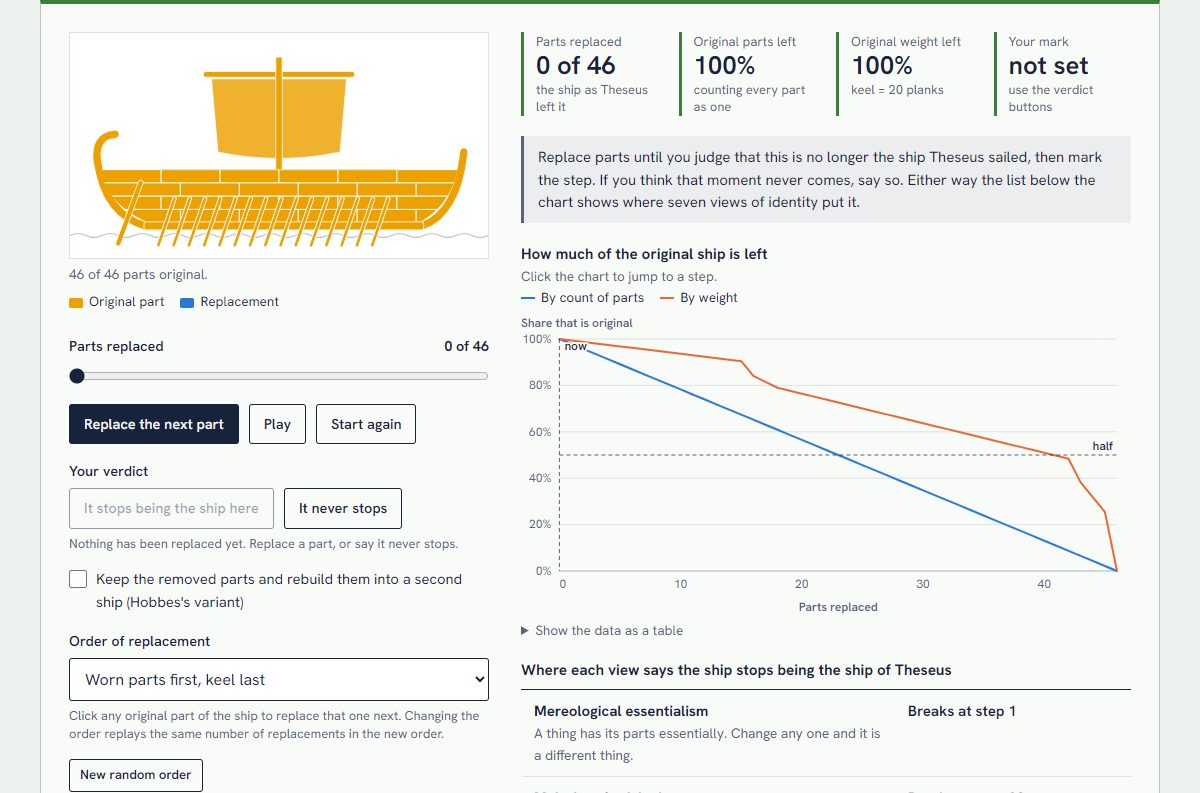
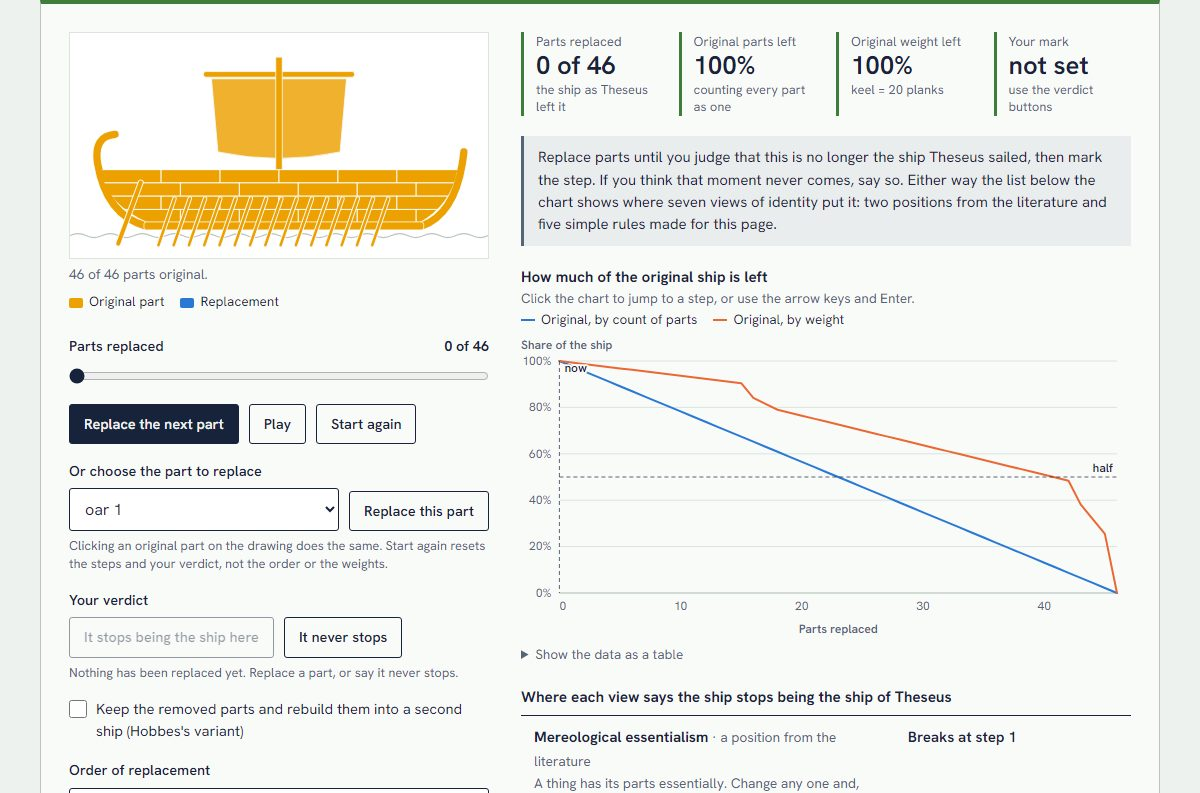
Review project 10: keyboard part replacement, Hobbes clash logic, exact percentages

diff --git a/365projects/10/app.js b/365projects/10/app.js
@@ -1,6 +1,6 @@
 // Day 10: Ship of Theseus Simulator. Interface.
 import { $, el, svgEl, fmt, clamp, mount, slider, select, checkbox, segmented, button, stat, note, chart, ticker, reducedMotion, randomSeed, palette } from "../kit/kit.js";
-import { PARTS, N, VIEWS, ORDERS, weights, makeOrder, promote, trajectory, breaks, roughest, matchMark, hobbesTension } from "./logic.js";
+import { PARTS, N, VIEWS, ORDERS, weights, makeOrder, promote, trajectory, breaks, roughest, matchMark, hobbesTension, describeParts } from "./logic.js";
 
 mount();
 
@@ -9,6 +9,10 @@ const strong = (text) => el("strong", { text });
 const list = (names) => (names.length < 2 ? names.join("") : `${names.slice(0, -1).join(", ")} and ${names.at(-1)}`);
 const steps = (n) => `${n} replacement${n === 1 ? "" : "s"}`;
 const viewName = (key) => VIEWS.find((v) => v.key === key).name;
+// Shares are compared with one half, so a rounded "50%" must mean exactly half: whole percentages only when exact.
+const share = (v) => fmt.pct(v, Math.abs(v * 100 - Math.round(v * 100)) < 1e-9 ? 0 : 1);
+/** Replace a box's contents only when the words differ, so that a live region is not read out again for nothing. */
+const setText = (box, node) => { if (box.textContent !== node.textContent) box.replaceChildren(node); };
 
 /* ---------- the ship ---------- */
 const ORIGINAL = palette[3], NEW = palette[0], GHOST = "#dfe5e1", SHEET = "#f9fbf9";
@@ -66,15 +70,18 @@ function ship(label, live) {
 
 const shipA = ship("The repaired ship", true);
 const shipB = ship("The ship rebuilt from the removed parts", false);
-shipA.svg.addEventListener("click", (e) => {
-  const id = e.target.closest?.("[data-id]")?.dataset.id;
-  if (id == null) return;
-  const next = promote(state.order, state.t, Number(id));
+/** Replace one chosen part now, whatever the order said. Does nothing if that part has already gone. */
+function replacePart(id) {
+  const next = promote(state.order, state.t, id);
   if (next === state.order) return;
   state.order = next;
   state.orderName = "custom";
   state.t++;
   render();
+}
+shipA.svg.addEventListener("click", (e) => {
+  const id = e.target.closest?.("[data-id]")?.dataset.id;
+  if (id != null) replacePart(Number(id));
 });
 
 /* ---------- controls ---------- */
@@ -86,7 +93,8 @@ const player = ticker((dt) => {
   waited += dt;
   if (waited < (reducedMotion() ? 0.7 : 0.2)) return;
   waited = 0;
-  if (state.t >= N) player.stop(); else state.t++;
+  if (state.t < N) state.t++;
+  if (state.t >= N) player.stop();
   render();
 });
 const playBtn = button("Play", () => {
@@ -97,7 +105,7 @@ const playBtn = button("Play", () => {
 const orderSelect = select({
   label: "Order of replacement", value: "wear",
   options: [...ORDERS, { value: "custom", label: "Your own order" }],
-  hint: "Click any original part of the ship to replace that one next. Changing the order replays the same number of replacements in the new order.",
+  hint: "Changing the order replays the same number of replacements in the new order. Replacing a part of your choice makes the order your own.",
   onChange: (v) => { state.orderName = v; if (v !== "custom") state.order = makeOrder(v, state.seed); render(); },
 });
 const shuffleBtn = button("New random order", () => { state.seed = randomSeed(); state.orderName = "random"; state.order = makeOrder("random", state.seed); render(); }, { small: true });
@@ -107,6 +115,11 @@ const gammaSlider = slider({
   hint: "A part's weight is its base importance raised to this power (shown here as what the keel is worth). Base values: keel 20, mast 8, posts and sail 5, yard and steering oar 2, plank 1, oar 0.5.",
   onInput: (g) => { state.gamma = g; render(); },
 });
+// The same thing as clicking a part on the drawing, for keyboards, screen readers and small screens.
+const partSelect = select({ label: "Or choose the part to replace", options: [] });
+const partBtn = button("Replace this part", () => { if (partSelect.value !== "") replacePart(Number(partSelect.value)); });
+const partRow = el("div", { class: "field" }, el("div", { class: "pick" }, partSelect.el, partBtn),
+  el("div", { class: "hint", text: "Clicking an original part on the drawing does the same. Start again resets the steps and your verdict, not the order or the weights." }));
 const markBtn = button("It stops being the ship here", () => { if (state.t > 0) { state.mark = state.t; render(); } });
 const neverBtn = button("It never stops", () => { state.mark = "never"; render(); });
 const markHint = el("div", { class: "hint" });
@@ -117,7 +130,7 @@ const sStep = stat("Parts replaced");
 const sCount = stat("Original parts left");
 const sWeight = stat("Original weight left");
 const sMark = stat("Your mark");
-const capA = el("figcaption");
+const capA = el("figcaption", { "aria-live": "polite" });
 const capB = el("figcaption");
 const figB = el("figure", { class: "ship-fig" }, shipB.svg, capB);
 const swatch = (colour, text) => el("span", {}, el("i", { style: { background: colour } }), text);
@@ -127,7 +140,7 @@ const ships = el("div", {},
   el("div", { class: "chart-legend", style: { marginTop: "8px" } }, swatch(ORIGINAL, "Original part"), swatch(NEW, "Replacement"), ghostKey));
 // The ship sits with its controls, so that on a phone the button and the thing it changes are on screen together.
 const controls = el("div", { class: "controls" },
-  ships, stepSlider.el, el("div", { class: "row" }, replaceBtn, playBtn, resetBtn),
+  ships, stepSlider.el, el("div", { class: "row" }, replaceBtn, playBtn, resetBtn), partRow,
   el("div", { class: "field" }, el("div", { class: "lab" }, el("span", { text: "Your verdict" })), el("div", { class: "row" }, markBtn, neverBtn), markHint),
   hobbesBox.el, orderSelect.el, el("div", {}, shuffleBtn), gammaSlider.el);
 const verdict = el("div", { role: "status" });
@@ -148,9 +161,9 @@ const plot = chart(chartBox, { series: [], height: 300 });
 
 /* ---------- text ---------- */
 const HOBBES = {
-  repaired: "You follow continuity. The repaired ship has one unbroken history, and at every step it shared almost all of itself with the ship of the step before. The rebuilt ship is then a second ship made of old timber. Gradual-continuity and form-and-function views say this.",
-  rebuilt: "You follow the matter. Every part of the rebuilt ship sailed with Theseus and sits where it sat then. Mereological essentialism and the original-matter views point here, and Hobbes raised the case to make exactly this trouble for the continuity answer. It means the repaired ship stopped being the ship of Theseus at some step.",
-  both: "Strictly, they cannot both be the original. The two ships are in different places, so they are two things, and if each were identical to the original they would be identical to each other. Four-dimensionalism keeps part of this answer: it says there were two ships all along that shared their early stages, as two roads can share a stretch of tarmac.",
+  repaired: "You follow continuity. The repaired ship has one unbroken history: it was never taken apart, it changed one part at a time, and it kept its form throughout. The rebuilt ship is then a second ship made of old timber. The rules on this page for gradual continuity and for form and function say this.",
+  rebuilt: "You follow the matter. Every part of the rebuilt ship sailed with Theseus and sits where it sat then. The majority-of-matter rules point here, and so does mereological essentialism if a thing can be taken apart and put together again. Hobbes raised the case to make exactly this trouble for the answer that sameness of form is enough. It means the repaired ship stopped being the ship of Theseus at some step.",
+  both: "Strictly, they cannot both be the original. The two ships are in different places, so they are two things, and if each were identical to the original they would be identical to each other; Hobbes called that result absurd. One version of four-dimensionalism keeps part of this answer: it says there were two ships all along that shared their early stages, as two roads can share a stretch of tarmac.",
   neither: "Then the ship of Theseus no longer exists. The repaired ship lost its identity with its matter, and the rebuilt one is a new construction from old parts, because the original was taken apart piece by piece and, on this answer, a thing cannot stop existing and then start again.",
 };
 
@@ -158,22 +171,24 @@ function verdictNote(traj, b) {
   const m = state.mark;
   const match = matchMark(m, b);
   const rough = roughest(traj);
-  const roughText = `${fmt.pct(rough.step, 0)} of the ship (${PARTS[rough.part].label})`;
+  const roughText = `${share(rough.step)} of the ship (${PARTS[rough.part].label})`;
   if (match.kind === "none") {
-    return note("", "Replace parts until you judge that this is no longer the ship Theseus sailed, then mark the step. If you think that moment never comes, say so. Either way the list below the chart shows where seven views of identity put it.");
+    return note("", "Replace parts until you judge that this is no longer the ship Theseus sailed, then mark the step. If you think that moment never comes, say so. Either way the list below the chart shows where seven views of identity put it: two positions from the literature and five simple rules made for this page.");
   }
   if (match.kind === "never") {
     return note("good", strong("You say it never stops being the same ship. "), `That is the verdict of ${match.views.length === 1 ? "one view here" : "two views here"}: ${match.views.map((v) => viewName(v.key).toLowerCase()).join(", and ")}. `,
       b.continuity == null
-        ? `The largest single change is ${roughText}, so every stage overlaps heavily with the one before. `
+        ? `The largest single change is ${roughText}, which is less than half, so that rule finds no break. `
         : `Gradual continuity does not agree at this weighting, because one replacement changes ${roughText}. `,
       "A mereological essentialist says it was a different ship after the first replacement.");
   }
   const row = traj[m];
-  const head = [strong(`You marked step ${m}, the replacement of ${PARTS[row.part].label}. `), `At that step ${fmt.pct(row.count, 0)} of the parts and ${fmt.pct(row.weighted, 0)} of the weight are original. `];
+  const head = [strong(`You marked step ${m}, the replacement of ${PARTS[row.part].label}. `), `At that step ${share(row.count)} of the parts and ${share(row.weighted)} of the weight are original. `];
   if (match.kind === "own") {
-    return note("", head, `No view on this page puts its break there. Your mark works as a threshold of your own: the ship must keep more than about ${fmt.pct(row.count, 0)} of its original parts, or ${fmt.pct(row.weighted, 0)} of its original weight. `,
-      m < b.count ? "That is stricter than a bare majority and looser than essentialism." : "That is looser than a bare majority of parts.");
+    const than = (at) => (m < at ? "stricter" : "looser");
+    return note("", head, `No view on this page puts its break there. Your mark works as a threshold of your own: the ship must keep more than ${share(row.count)} of its original parts, or more than ${share(row.weighted)} of its original weight. `,
+      than(b.count) === than(b.weighted) ? `That is ${than(b.count)} than a bare majority, by count and by weight` : `That is ${than(b.count)} than a bare majority of parts and ${than(b.weighted)} than a bare majority by weight`,
+      m > 1 ? ", and looser than essentialism." : ".");
   }
   const where = (v) => `${viewName(v.key).toLowerCase()} (${v.gap === 0 ? "the same step" : `step ${m - v.gap}, ${steps(Math.abs(v.gap))} ${v.gap > 0 ? "earlier" : "later"}`})`;
   return note("good", head, `Your mark matches ${list(match.views.map(where))}.`);
@@ -195,44 +210,58 @@ function render() {
   markBtn.disabled = state.t === 0;
   markBtn.setAttribute("aria-pressed", String(m === state.t));
   neverBtn.setAttribute("aria-pressed", String(m === "never"));
+  // The parts still original, for the keyboard route. Rebuilt only when the list changes, so an open menu is left alone.
+  const left = PARTS.filter((p) => !gone.has(p.id));
+  if (partSelect.input.dataset.left !== left.map((p) => p.id).join()) {
+    const keep = partSelect.value;
+    partSelect.input.replaceChildren(...left.map((p) => el("option", { value: p.id, text: p.label })));
+    if (left.some((p) => String(p.id) === keep)) partSelect.value = keep;
+    partSelect.input.dataset.left = left.map((p) => p.id).join();
+  }
+  partSelect.input.disabled = partBtn.disabled = !left.length;
   markHint.textContent = state.t === 0 ? "Nothing has been replaced yet. Replace a part, or say it never stops." : m == null ? "Mark the step you are on, or say the ship never stops being the same. You can change your mind." : m === "never" ? "Your verdict: never." : `Your mark is at step ${m}. Mark another step to move it.`;
 
   // Ships.
-  shipA.paint((id) => (gone.has(id) ? [NEW, "replaced"] : [ORIGINAL, "original; click to replace it next"]));
+  shipA.paint((id) => (gone.has(id) ? [NEW, "replaced"] : [ORIGINAL, "original; click to replace it now"]));
   shipB.paint((id) => (gone.has(id) ? [ORIGINAL, "original, rebuilt here"] : [GHOST, "still on the repaired ship"]));
   figB.hidden = !state.hobbes;
   ghostKey.hidden = !state.hobbes;
   hobbesPanel.hidden = !state.hobbes;
-  capA.textContent = `${state.hobbes ? "The repaired ship: " : ""}${N - state.t} of ${N} parts original${state.t ? `. Last replaced: ${PARTS[now.part].label}.` : "."}`;
-  capB.textContent = `The rebuilt ship: ${state.t} of ${N} parts in place, all of them original.`;
+  // The captions say in words what the drawings show. While the steps play by themselves the caption is not read out on every tick.
+  const goneText = list(describeParts(gone));
+  capA.setAttribute("aria-live", player.running ? "off" : "polite");
+  capA.textContent = `${state.hobbes ? "The repaired ship: " : ""}${N - state.t} of ${N} parts original${state.t ? `. Last replaced: ${PARTS[now.part].label}. Replaced so far: ${goneText}.` : "."}`;
+  capB.textContent = `The rebuilt ship: ${state.t} of ${N} parts in place, all of them original${state.t ? `: ${goneText}.` : "."}`;
+  shipA.svg.setAttribute("aria-label", `Drawing of the repaired ship. ${state.t ? `Replaced: ${goneText}` : "Every part is original"}.`);
+  shipB.svg.setAttribute("aria-label", `Drawing of the ship rebuilt from the removed parts. ${state.t ? `In place: ${goneText}` : "Nothing is in place yet"}.`);
 
   // Numbers.
   sStep.set(`${state.t} of ${N}`, state.t ? `last: ${PARTS[now.part].label}` : "the ship as Theseus left it");
-  sCount.set(fmt.pct(now.count, 0), "counting every part as one");
-  sWeight.set(fmt.pct(now.weighted, 0), state.gamma === 0 ? "all parts weigh the same" : `keel = ${fmt.sig(20 ** state.gamma, 2)} planks`);
-  sMark.set(m == null ? "not set" : m === "never" ? "never" : `step ${m}`, Number.isInteger(m) ? `${fmt.pct(traj[m].count, 0)} of parts, ${fmt.pct(traj[m].weighted, 0)} of weight left` : m === "never" ? "it is always the same ship" : "use the verdict buttons");
-  verdict.replaceChildren(verdictNote(traj, b));
+  sCount.set(share(now.count), "counting every part as one");
+  sWeight.set(share(now.weighted), state.gamma === 0 ? "all parts weigh the same" : `keel = ${fmt.sig(20 ** state.gamma, 2)} planks`);
+  sMark.set(m == null ? "not set" : m === "never" ? "never" : `step ${m}`, Number.isInteger(m) ? `${share(traj[m].count)} of parts, ${share(traj[m].weighted)} of weight left` : m === "never" ? "it is always the same ship" : "use the verdict buttons");
+  setText(verdict, verdictNote(traj, b));
 
   // Hobbes's question.
   const tension = hobbesTension(m, state.answer);
-  whichSays.replaceChildren(...(state.answer ? [note("", HOBBES[state.answer])] : [note("", "Hobbes asked this in 1655. At the end the repaired ship has the history and none of the timber; the rebuilt ship has all of the timber and a gap in its history.")]),
+  whichSays.replaceChildren(...(state.answer ? [note("", HOBBES[state.answer])] : [note("", "Hobbes set out this case in 1655. At the end the repaired ship has the history and none of the timber; the rebuilt ship has all of the timber and a gap in its history.")]),
     ...(tension ? [note("warn", strong("This sits badly with your mark. "), m === "never"
       ? "You said the repaired ship never stops being the ship of Theseus. Then the ship of Theseus cannot be a different ship, and cannot have ceased to exist."
-      : `You marked step ${m} as the point where the repaired ship stopped being the ship of Theseus, and you also say that the repaired ship is the ship of Theseus.`)] : []));
+      : `You marked step ${m} as the point where the repaired ship stopped being the ship of Theseus, and you also say that the repaired ship ${state.answer === "both" ? "is one of two ships that are" : "is"} the ship of Theseus.`)] : []));
 
   // Chart.
   const marks = [{ type: "hline", y: 0.5, text: "half" }, { type: "vline", x: state.t, text: "now" }];
   if (Number.isInteger(m)) marks.push({ type: "vline", x: m, text: "your mark", dy: 14 });
   plot.update({
     title: "How much of the original ship is left",
-    subtitle: "Click the chart to jump to a step.",
+    subtitle: "Click the chart to jump to a step, or use the arrow keys and Enter.",
     label: "Line chart of the share of the ship that is original against the number of parts replaced",
     x: { label: "Parts replaced", domain: [0, N] },
-    y: { label: "Share that is original", domain: [0, 1], format: (v) => fmt.pct(v, 0) },
+    y: { label: "Share of the ship", domain: [0, 1], format: share },
     series: [
-      { name: "By count of parts", data: traj.map((r) => [r.t, r.count]), color: 0 },
-      { name: "By weight", data: traj.map((r) => [r.t, r.weighted]), color: 1 },
-      ...(state.hobbes ? [{ name: "Rebuilt ship: share complete, by weight", data: traj.map((r) => [r.t, 1 - r.weighted]), color: 2 }] : []),
+      { name: "Original, by count of parts", data: traj.map((r) => [r.t, r.count]), color: 0 },
+      { name: "Original, by weight", data: traj.map((r) => [r.t, r.weighted]), color: 1 },
+      ...(state.hobbes ? [{ name: "Rebuilt ship: complete, by weight", data: traj.map((r) => [r.t, 1 - r.weighted]), color: 2 }] : []),
     ],
     marks,
     onClick: ({ x, inside }) => { if (inside) { state.t = clamp(Math.round(x), 0, N); render(); } },
@@ -248,13 +277,13 @@ function render() {
     return at === m ? "The same step as your mark." : at < m ? `${steps(m - at)} before your mark.` : `${steps(at - m)} after your mark.`;
   };
   const breaksAt = (key) => {
-    if (key === "fourD") return "No step to find";
-    if (key === "continuity" && b.continuity == null) return `Never breaks (largest single change ${fmt.pct(roughest(traj).step, 0)})`;
+    if (key === "fourD") return "No step of its own";
+    if (key === "continuity" && b.continuity == null) return `Never breaks (largest single change ${share(roughest(traj).step)})`;
     return b[key] == null ? "Never breaks" : `Breaks at step ${b[key]}`;
   };
   const mine = new Set(matchMark(m, b).views.map((v) => v.key));
   viewsBox.replaceChildren(...VIEWS.map((v) => el("li", { class: mine.has(v.key) ? "view mine" : "view" },
-    el("div", {}, strong(v.name), el("div", { class: "small muted", text: v.gloss })),
+    el("div", {}, strong(v.name), el("span", { class: "small muted", text: v.own ? " · a rule made for this page" : " · a position from the literature" }), el("div", { class: "small muted", text: v.gloss })),
     el("div", {}, el("div", { class: "view-at", text: breaksAt(v.key) }), el("div", { class: "small muted", text: against(v.key) })))));
 }
 

diff --git a/365projects/10/index.html b/365projects/10/index.html
@@ -18,6 +18,8 @@
     .ship.live [data-id] { cursor: pointer; }
     .ship.live [data-id]:hover { opacity: 0.7; }
     .btn[aria-pressed="true"] { background: var(--ink); color: var(--paper); }
+    .pick { display: flex; flex-wrap: wrap; gap: 10px; align-items: flex-end; }
+    .pick .field { flex: 1 1 200px; margin: 0; }
     .checks { display: grid; gap: 10px; margin-top: 12px; }
     .views { list-style: none; margin: 8px 0 0; padding: 0; border-top: 1.5px solid var(--ink); }
     .view { display: grid; grid-template-columns: minmax(0, 1fr) minmax(0, 15em); gap: 4px 20px; padding: 10px 0 10px 10px; border-bottom: 1px solid var(--grid); border-left: 3px solid transparent; font-size: 0.93rem; }
@@ -44,16 +46,16 @@
 
     <section class="p-sec">
       <h2>The idea</h2>
-      <p>Plutarch reports that the Athenians kept the thirty-oared ship in which Theseus came back from Crete, and preserved it for centuries by taking out each timber as it decayed and fitting a sound one in its place. The ship, he says, became a standing example for philosophers arguing about growth and change: some held that it remained the same ship, others that it did not.</p>
-      <p>In 1655 Thomas Hobbes made the puzzle sharper. Suppose someone had kept every old plank as it came out, and afterwards put them all together again in the same order. Now there are two ships. One has an unbroken history as the ship of Theseus and none of his timber. The other has all of his timber and a gap in its history. If sameness of form and history is what makes a ship the same, the first is the original; if sameness of matter is, the second; and they cannot both be, since they are two ships.</p>
+      <p>Plutarch reports that the Athenians kept the thirty-oared ship in which Theseus came back from Crete down to the time of Demetrius of Phalerum, taking out the old timbers from time to time and fitting sound ones in their place. The ship, he says, became a standing example for philosophers arguing about growth: some held that it remained the same ship, others that it did not.</p>
+      <p>In 1655 Thomas Hobbes made the puzzle sharper. Suppose someone had kept every old plank as it came out, and afterwards put them all together again in the same order. Now there are two ships. One has an unbroken history as the ship of Theseus and none of his timber. The other has all of his timber and a gap in its history. If sameness of form and history is what makes a ship the same, the first is the original; if sameness of matter is, the second; and they cannot both be, since they are two ships. Hobbes used the case against those who rest identity on form alone: by their test the rebuilt ship would also be the ship of Theseus, and one ship would be two.</p>
       <p>The question is what it takes for anything to last through change, and it is not only about boats. A living body replaces its matter. A university, a football club or a company can lose every founding member and carry on. A shrine can be rebuilt on a fixed cycle and remain the same shrine to those who use it. A state after a revolution may or may not owe the old state's debts. Each of these is settled, in practice, by choosing which kind of sameness counts.</p>
-      <p>The main answers fall into three families. Identity follows the matter: at the limit, mereological essentialism, on which a thing cannot lose a single part and remain strictly the same. Identity follows form and a continuous history: the line that runs from Aristotle's distinction between a thing's matter and its form to modern accounts of continuity under a kind. Or the question is posed wrongly: on the four-dimensional view a ship is extended in time as it is in space, every stage is a part of it, and what looked like a question about survival becomes a question about which stages we group under one name. This page lets you find your own breaking point and then shows which family it belongs to.</p>
+      <p>The main answers fall into three families. Identity follows the matter: at the limit, mereological essentialism, on which a thing cannot lose a single part and remain strictly the same. Identity follows form and a continuous history: the line that runs from Aristotle's distinction between a thing's matter and its form to modern accounts of continuity under a kind. Or the question is posed wrongly: on the four-dimensional view a ship is extended in time as it is in space, every stage is a part of it, and what looked like a question about survival becomes a question about which stages we group under one name. This page lets you find your own breaking point and then shows which family it belongs to. Two of the seven views it compares are positions that go by their names in the literature, mereological essentialism and four-dimensionalism. The other five are simple rules written for this page, each standing in for a family of answers and none of them a named theory.</p>
     </section>
 
     <section class="p-sec">
       <h2>How it works</h2>
       <h3>The ship</h3>
-      <p>The galley has <var>N</var> = 46 parts: fifteen oars (the bank on the side you can see), a sail, a steering oar, a yard, twenty-four hull planks, a mast, a stem post, a stern post and a keel. Each step replaces exactly one part with a new part of the same shape in the same place. Three orders are built in: worn parts first with the keel last, the reverse, and a seeded random order. Clicking a part replaces that part next, which makes the order your own.</p>
+      <p>The galley has <var>N</var> = 46 parts: fifteen oars (the bank on the side you can see), a sail, a steering oar, a yard, twenty-four hull planks, a mast, a stem post, a stern post and a keel. Each step replaces exactly one part with a new part of the same shape in the same place. Three orders are built in: worn parts first with the keel last, the reverse, and a seeded random order. Clicking an original part on the drawing replaces that part at once, which makes the order your own; the menu under the buttons does the same from the keyboard.</p>
       <h3>Two measures of what is left</h3>
       <p>After <var>t</var> replacements the share of parts that are original is</p>
       <p class="eq"><var>c</var>(<var>t</var>) = (<var>N</var> − <var>t</var>) / <var>N</var></p>
@@ -63,19 +65,23 @@
       <p>The base importance <var>b</var> is 20 for the keel, 8 for the mast, 5 for each post and the sail, 2 for the yard and the steering oar, 1 for a plank and 0.5 for an oar. These are a judgement, not a measurement. The slider sets <var>γ</var> from 0 to 2. At 0 every part weighs the same and the two measures coincide; at 1 the base values are used as they are; at 2 the keel counts as 400 planks. A third quantity is the size of a single step, the share of the whole ship that one replacement changes:</p>
       <p class="eq"><var>s</var>(<var>t</var>) = <var>w</var><sub>part replaced at <var>t</var></sub> / (sum of <var>w</var><sub><var>i</var></sub> over all parts)</p>
       <h3>Where each view puts the break</h3>
+      <p>Two of the seven are positions from the literature:</p>
       <ul>
-        <li><strong>Mereological essentialism</strong>: step 1. Any change of parts is a change of thing.</li>
-        <li><strong>Majority of original parts</strong>: the first <var>t</var> with <var>c</var>(<var>t</var>) ≤ ½, which is step 23.</li>
-        <li><strong>Majority of original matter</strong>: the first <var>t</var> with <var>m</var>(<var>t</var>) ≤ ½. This depends on the order and on the weights.</li>
-        <li><strong>An essential core</strong>: the step that replaces the keel.</li>
-        <li><strong>Gradual continuity</strong>: the first <var>t</var> with <var>s</var>(<var>t</var>) ≥ ½, and otherwise never. Each stage must overlap with the stage before by more than half.</li>
-        <li><strong>Same form and function</strong>: never. Every replacement is like for like, so the design, the arrangement and the ability to sail are the same at every step.</li>
-        <li><strong>Four-dimensionalism</strong>: no step. The ship is the whole sequence of stages.</li>
+        <li><strong>Mereological essentialism</strong> (Chisholm): step 1. A thing has its parts essentially, so any change of parts is, strictly, a change of thing.</li>
+        <li><strong>Four-dimensionalism</strong> (Lewis, Sider): no step of its own. A ship persists by having a stage at each time, and which stages make up one ship is settled by some further rule, such as one of those below. The view changes what the question is about; it does not pick a step.</li>
+      </ul>
+      <p>The other five are rules made for this page. Each turns a family of answers into a test that can be run on the model; none is a theory that an author has put forward under that name or with that number.</p>
+      <ul>
+        <li><strong>Majority of original parts</strong>: the first <var>t</var> with <var>c</var>(<var>t</var>) ≤ ½, which is step 23. Sameness of matter, with a threshold of one half.</li>
+        <li><strong>Majority of original matter</strong>: the first <var>t</var> with <var>m</var>(<var>t</var>) ≤ ½. The same test by weight; it depends on the order and on the weights.</li>
+        <li><strong>An essential core</strong>: the step that replaces the keel. A halfway house between essentialism and the majority rules: one part is essential and the rest are not. The choice of the keel is this page's.</li>
+        <li><strong>Gradual continuity</strong>: the first <var>t</var> with <var>s</var>(<var>t</var>) ≥ ½, and otherwise never. Each stage must overlap with the stage before by more than half. This is a crude stand-in for accounts on which a thing survives change that is gradual and continuous; the one-half test is not taken from any of them.</li>
+        <li><strong>Same form and function</strong>: never. Every replacement is like for like, so the design, the arrangement and the ability to sail are the same at every step. This is the answer that identity follows form, in its simplest version.</li>
       </ul>
       <h3>Matching your mark</h3>
-      <p>A mark of "never" agrees with form and function, and with gradual continuity when no step reaches half the ship. Three views are tied to a single event, and a mark agrees with them only if it falls on that very step: the first replacement for essentialism, the keel for the essential core, a change of half the ship for the break that gradual continuity can find. The two majority views are matched when their break lies within two replacements of the mark; that allowance is a convenience, not a principle. A mark that agrees with none of these is reported as a threshold of your own, with the two shares that remained at that step.</p>
+      <p>A mark of "never" agrees with form and function, and with gradual continuity when no step reaches half the ship. Three views are tied to a single event, and a mark agrees with them only if it falls on that very step: the first replacement for essentialism, the keel for the essential core, a change of half the ship for the break that gradual continuity can find. The two majority views are matched when their break lies within two replacements of the mark; that allowance is a convenience, not a principle. A mark that agrees with none of these is reported as a threshold of your own, with the two shares that remained at that step. Shares are shown as whole percentages only when they are exact, so 50% always means exactly half and a share just under it appears as, for example, 49.5%.</p>
       <h3>Hobbes's variant</h3>
-      <p>With the variant switched on, each part taken off the first ship is fixed in the same position on a second. After <var>t</var> steps the second ship is 1 − <var>m</var>(<var>t</var>) complete by weight, and every part of it is original. The tool asks which ship is the ship of Theseus and checks the answer against your mark: you cannot hold both that the repaired ship stopped being the ship at some step and that the repaired ship is the ship.</p>
+      <p>With the variant switched on, each part taken off the first ship is fixed in the same position on a second. After <var>t</var> steps the second ship is 1 − <var>m</var>(<var>t</var>) complete by weight, and every part of it is original. The tool asks which ship is the ship of Theseus and checks the answer against your mark: you cannot hold both that the repaired ship stopped being the ship at some step and that the repaired ship is the ship (alone, or as one of two), nor both that it never stopped being the ship and that the ship is now the other one or no longer exists.</p>
     </section>
 
     <section class="p-sec">
@@ -84,7 +90,7 @@
         <li><strong>Which view is true.</strong> The tool sorts marks by the view they agree with. Counting planks does not settle a question in metaphysics, and it may be that the question has no answer beyond what a museum, an insurer or a navy chooses to count.</li>
         <li><strong>Where a threshold belongs.</strong> "More than half" is a convention. No argument picks out 50% over 40% or 60%, and that arbitrariness is a standard objection to every view that draws a line through gradual change.</li>
         <li><strong>What the weights should be.</strong> Whether a keel matters twenty times as much as a plank is your input. Weight could mean mass, cost, structural role or attachment, and each gives a different curve.</li>
-        <li><strong>What the full theories say.</strong> Each view is one rule here and a literature elsewhere. Chisholm's essentialist grants that the ship persists in a loose and popular sense. Wiggins's continuity is continuity under a kind, not a 50% overlap test. Four-dimensionalists disagree among themselves about whether a ship is the whole worm or a single stage.</li>
+        <li><strong>What the full theories say.</strong> Each view is one rule here and a literature elsewhere, and five of the seven rules are this page's own simplifications. Chisholm's essentialist grants that the ship persists in a loose and popular sense. Wiggins's continuity is continuity under a kind, not a 50% overlap test. Four-dimensionalists disagree among themselves about whether a ship is a whole four-dimensional "worm" or a single stage of one.</li>
         <li><strong>Cases outside the model.</strong> Every change here is like for like and one part at a time. There is no change of design or use, no long spell in pieces, no difference between a refit in an afternoon and one over a century, though all of these move people's judgements.</li>
         <li><strong>Anything about persons.</strong> What matters in a person's survival may be memory and character, not matter or shape, and Derek Parfit argued that identity is not what matters at all. A ship has no point of view to lose.</li>
       </ul>
@@ -105,12 +111,12 @@
     <section class="p-sec">
       <h2>Sources</h2>
       <ul class="refs">
-        <li>Plutarch. <em>Life of Theseus</em>, chapter 23, in the <em>Parallel Lives</em>.</li>
-        <li>Hobbes, T. (1655). <em>De Corpore</em>, part II, chapter 11.</li>
+        <li>Plutarch. <em>Life of Theseus</em>, chapter 23, section 1, in the <em>Parallel Lives</em>.</li>
+        <li>Hobbes, T. (1655). <em>De Corpore</em>, part II, chapter 11, section 7.</li>
         <li>Locke, J. <em>An Essay Concerning Human Understanding</em>, book II, chapter 27, "Of identity and diversity".</li>
         <li>Chisholm, R. M. (1976). <em>Person and Object</em>. Allen and Unwin.</li>
         <li>Wiggins, D. (2001). <em>Sameness and Substance Renewed</em>. Cambridge University Press.</li>
-        <li>Smart, B. (1972). How to reidentify the ship of Theseus. <em>Analysis</em>.</li>
+        <li>Smart, B. (1972). How to reidentify the ship of Theseus. <em>Analysis</em>, 32(5), 145-148.</li>
         <li>Nozick, R. (1981). <em>Philosophical Explanations</em>. Harvard University Press.</li>
         <li>Parfit, D. (1984). <em>Reasons and Persons</em>. Oxford University Press.</li>
         <li>Lewis, D. (1986). <em>On the Plurality of Worlds</em>. Blackwell.</li>

diff --git a/365projects/10/logic.js b/365projects/10/logic.js
@@ -72,15 +72,18 @@ export function trajectory(order, w = weights(1)) {
   return rows;
 }
 
-/** The views of identity compared on the page. */
+/**
+ * The views of identity compared on the page. Only two are positions that go by these names in the literature
+ * (own: false). The other five are simple rules written for this page, each standing in for a family of answers.
+ */
 export const VIEWS = [
-  { key: "essentialism", name: "Mereological essentialism", gloss: "A thing has its parts essentially. Change any one and it is a different thing." },
-  { key: "count", name: "Majority of original parts", gloss: "The same ship while more than half of its parts, counted one by one, are original." },
-  { key: "weighted", name: "Majority of original matter", gloss: "The same ship while more than half of its weight is original." },
-  { key: "keel", name: "An essential core", gloss: "Some parts are essential and the rest are not. The ship is wherever its keel is." },
-  { key: "continuity", name: "Gradual continuity", gloss: "The same ship as long as no single change replaces half of it or more." },
-  { key: "form", name: "Same form and function", gloss: "Identity follows the design and the work the ship does, not the timber." },
-  { key: "fourD", name: "Four-dimensionalism", gloss: "A ship is spread through time as it is through space. Every stage here is a part of it, so there is no step to find." },
+  { key: "essentialism", name: "Mereological essentialism", own: false, gloss: "A thing has its parts essentially. Change any one and, strictly, it is a different thing." },
+  { key: "count", name: "Majority of original parts", own: true, gloss: "The same ship while more than half of its parts, counted one by one, are original." },
+  { key: "weighted", name: "Majority of original matter", own: true, gloss: "The same ship while more than half of its weight is original." },
+  { key: "keel", name: "An essential core", own: true, gloss: "Some parts are essential and the rest are not. The ship is wherever its keel is." },
+  { key: "continuity", name: "Gradual continuity", own: true, gloss: "The same ship as long as no single change replaces half of it or more." },
+  { key: "form", name: "Same form and function", own: true, gloss: "Identity follows the design and the work the ship does, not the timber." },
+  { key: "fourD", name: "Four-dimensionalism", own: false, gloss: "A ship is spread through time as it is through space, and its stages are parts of it. Which stages make up one ship is a further question, so this view has no step of its own." },
 ];
 
 /** The step at which each threshold view says the ship stops being the same (null: never). */
@@ -120,12 +123,24 @@ export function matchMark(mark, b, tol = 2) {
   return { kind: views.length ? "match" : "own", views };
 }
 
-/** Whether a mark and an answer to Hobbes's question can be held together. */
+/**
+ * Whether a mark and an answer to Hobbes's question clash. A mark at a step says the repaired ship stopped being
+ * the ship of Theseus there, so it clashes with any answer on which the repaired ship is that ship ("both" included).
+ */
 export function hobbesTension(mark, answer) {
   if (mark == null || !answer) return false;
-  if (answer === "repaired") return mark !== "never";
+  if (answer === "repaired" || answer === "both") return mark !== "never";
   if (answer === "rebuilt" || answer === "neither") return mark === "never";
   return false;
+}
+
+/** The parts in `ids`, in words and by kind: ["all 15 oars", "the sail", "3 of 24 planks"]. The text equivalent of the drawing. */
+export function describeParts(ids) {
+  const has = new Set(ids);
+  return KINDS.map((k) => {
+    const n = PARTS.filter((p) => p.kind === k.key && has.has(p.id)).length;
+    return !n ? null : k.count === 1 ? `the ${k.label}` : n === k.count ? `all ${n} ${k.label}s` : `${n} of ${k.count} ${k.label}s`;
+  }).filter(Boolean);
 }
 
 /** The smallest gamma, to two decimals, at which replacing the keel alone changes half the ship. */
